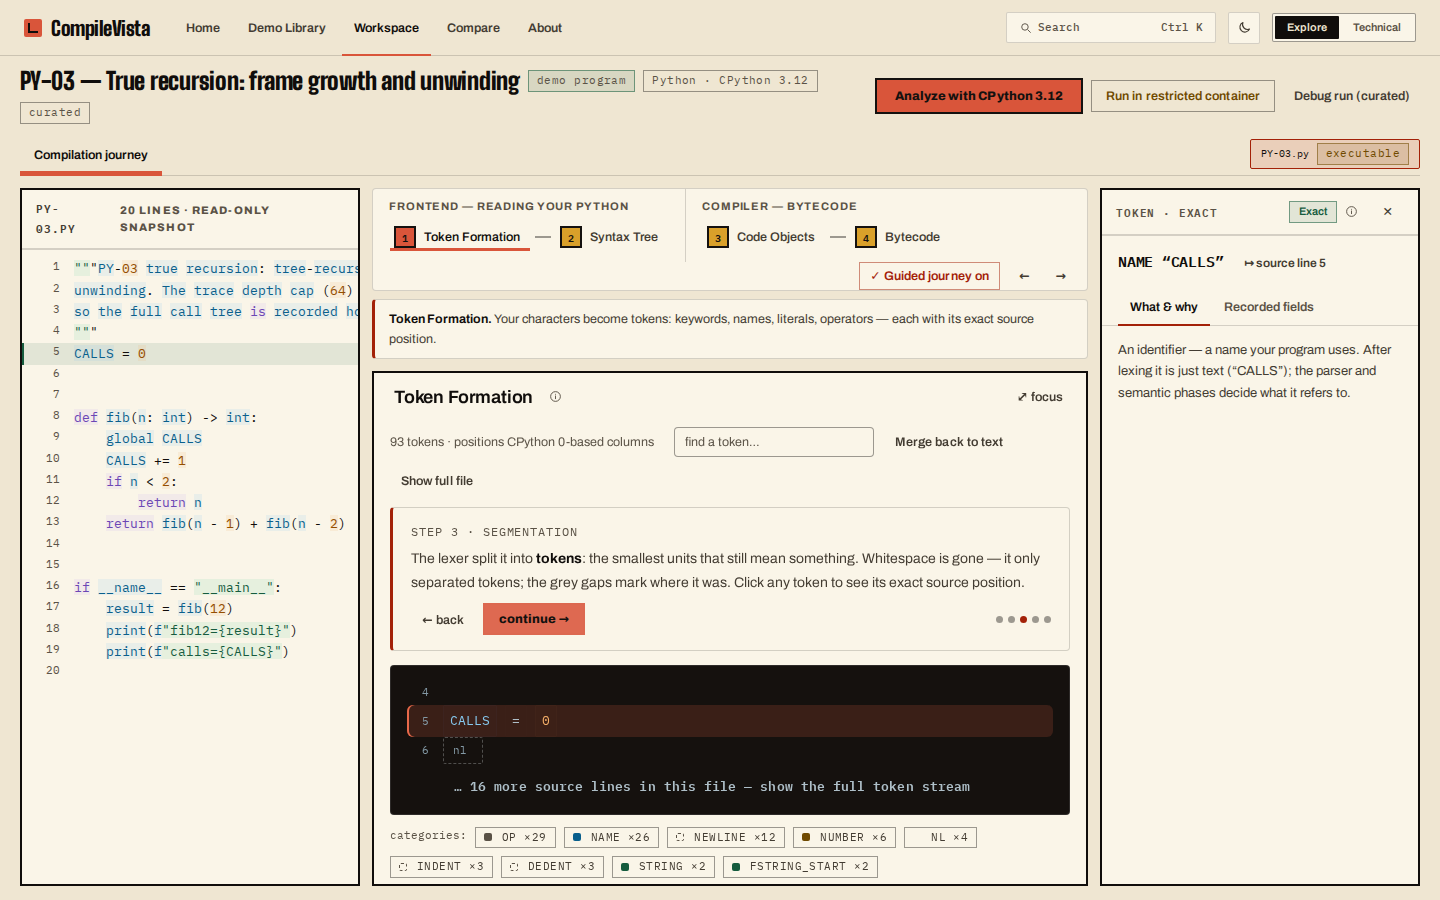
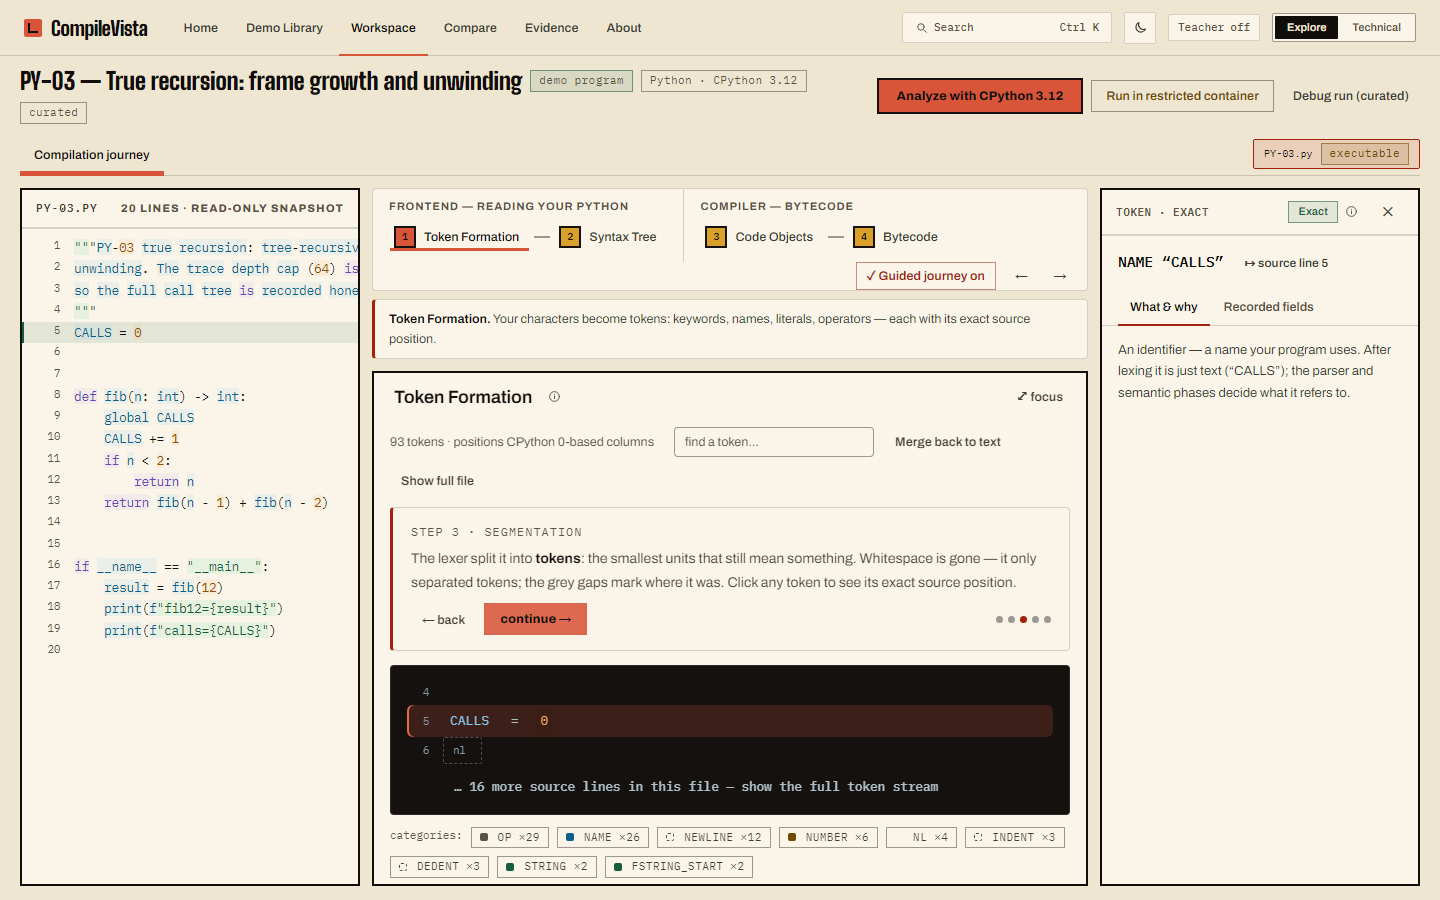
Fix 768px header overflow; record suite results

diff --git a/frontend/src/styles/base.css b/frontend/src/styles/base.css
@@ -271,3 +271,8 @@ main:focus { outline: none; }
   .topnav a.navlink { padding: 0 5px; font-size: 12px; }
   .topnav a.navlink[href="/"] { display: none; }
 }
+@media (max-width: 900px) and (min-width: 721px) {
+  .topnav { padding: 0 10px; gap: 0; }
+  .topnav a.navlink { padding: 0 5px; font-size: 13px; }
+  .topnav .navtools { gap: 6px; }
+}

diff --git a/docs/PROJECT_STATUS.md b/docs/PROJECT_STATUS.md
@@ -11,7 +11,9 @@ Updated: 11 November 2026 (Petrol & Coral redesign, presentation only)
 - Home reel pauses when off-screen or the tab is hidden; header fixed for the new Evidence link and
   Teacher toggle (two rows at 375 px, no overflow at 1024 px).
 - Checked live (Browser pane): evidence table (13 rows), home figure in light and dark, 375 px layout.
-  Not done: axe/e2e suites not re-run; Rust/Java; pasted-code execution (BLOCKED until the M4 gate);
+  Suites run on this pass: `a11y_suite.py` PASS (16 screens, 0 violations), `layout_widths_suite.py` PASS
+  (after fixing a 15 px header overflow at 768 px that the new nav items caused), `m9`, `m8d`, `m8` PASS.
+  Not re-run: m8b, m8c, m10, m11, repair_watch_ast. Not done: Rust/Java; pasted-code execution (BLOCKED until the M4 gate);
   token cap and launcher were already fixed in ae4f012.
 
 ## Learning layer: -O0 vs -O2 diff, guided lesson, quiz, teacher mode (frontend only)
